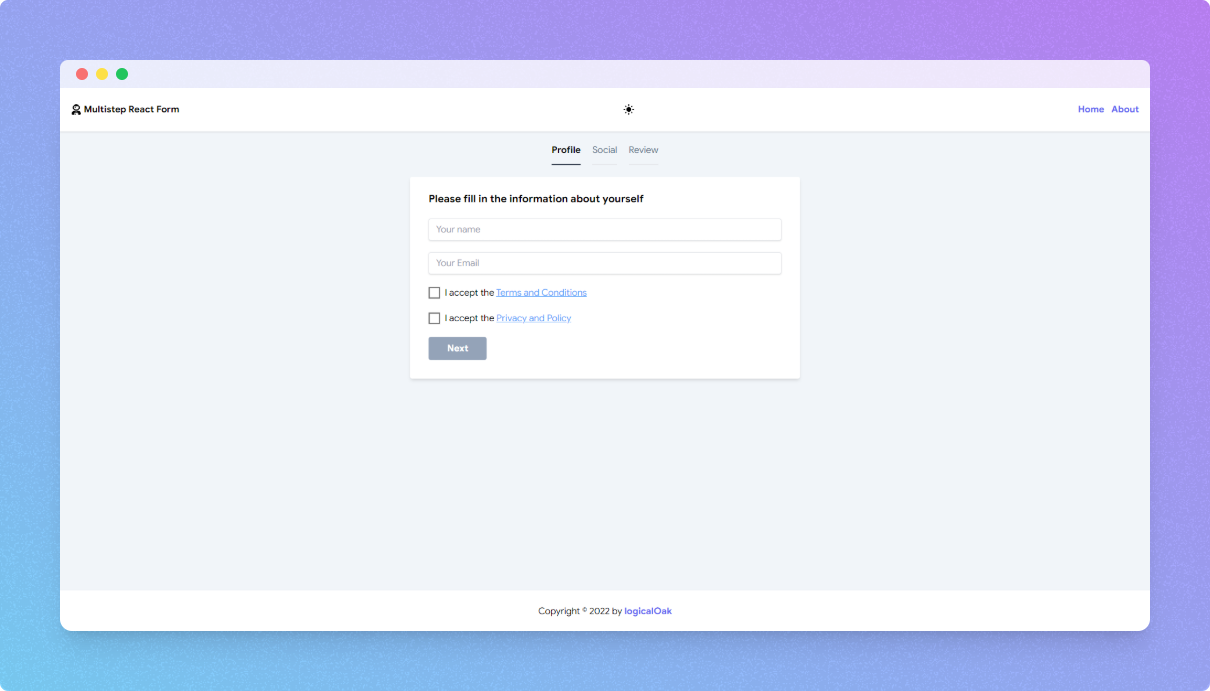
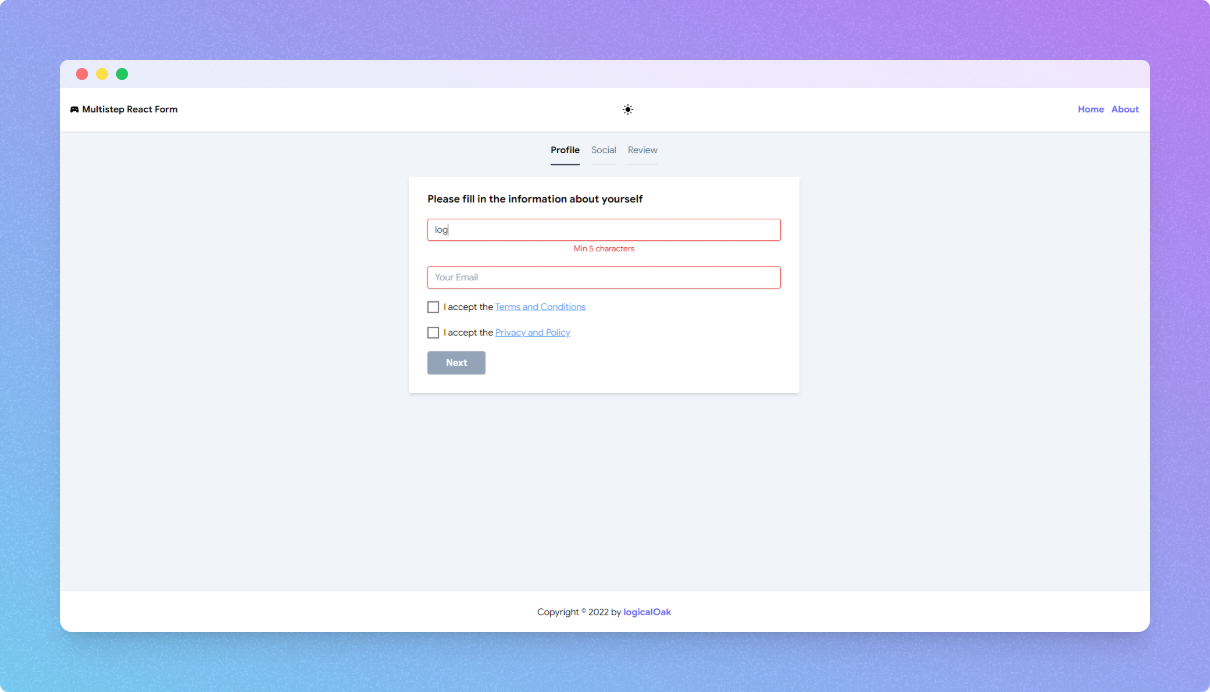
added preview and details

diff --git a/src/components/pages/About.jsx b/src/components/pages/About.jsx
@@ -9,8 +9,8 @@ const About = () => (
 	<div className='max-w-4xl m-auto flex flex-col items-start gap-[10px] bg-white shadow rounded p-5 p-3 dark:bg-primary dark:text-secondary'>
 		<h1 className='font-semibold text-lg sm:text-xl'>😉 About</h1>
 		<p>
-			<span className='font-semibold'>Description:</span> Application for
-			finding information about GitHub users
+			<span className='font-semibold'>Description:</span> Multistep form
+			with validation using react hook-form
 		</p>
 		<p>
 			<span className='font-semibold'>Version: </span> 1.0.0

diff --git a/src/components/layout/Header.jsx b/src/components/layout/Header.jsx
@@ -1,4 +1,4 @@
-import { FaUserAstronaut } from 'react-icons/fa';
+import { MdSportsEsports } from 'react-icons/md';
 import { Link } from 'react-router-dom';
 import { Toggle } from '../index';
 
@@ -15,7 +15,7 @@ const Header = () => (
 				className='flex flex-col items-center gap-1 font-semibold sm:flex-row'
 				to='/'
 			>
-				<FaUserAstronaut className='text-lg' />
+				<MdSportsEsports className='text-lg' />
 				Multistep React Form
 			</Link>
 
